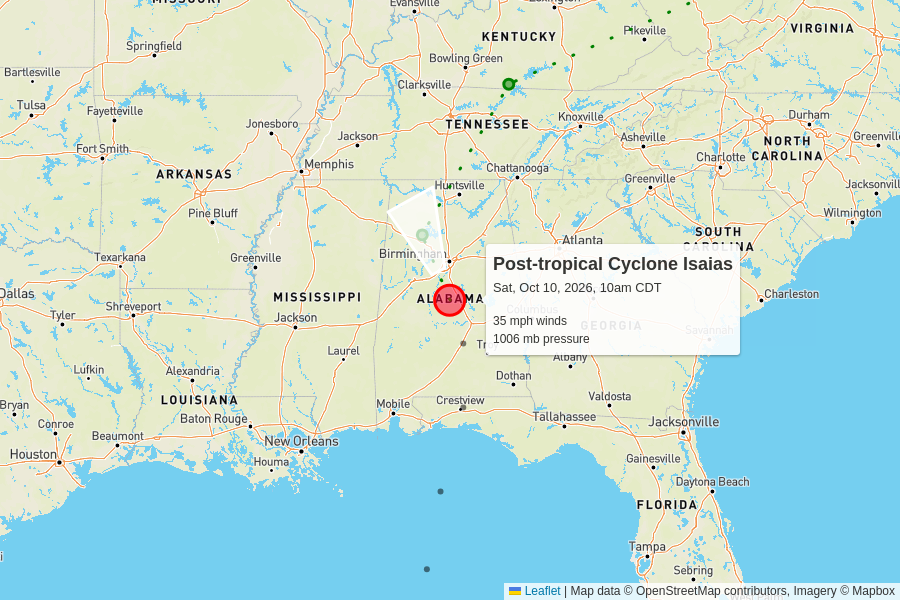
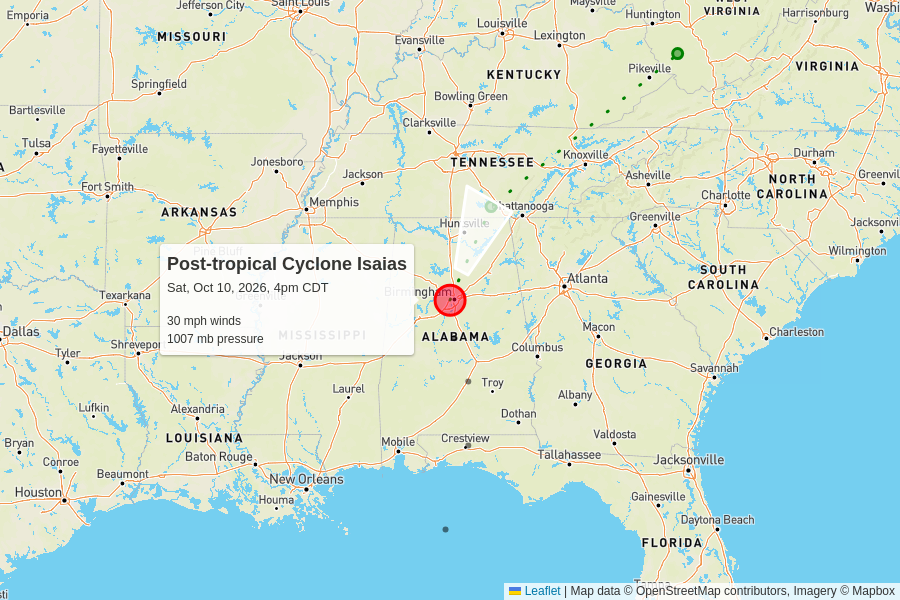
automatic update

diff --git a/docs/2026.html b/docs/2026.html
@@ -45,13 +45,13 @@
       <div class="grid-container">
           <div class="grid-row">
             <script type="text/json" id="storm_data_AL092026">
-              {"pressure":[{"timestamp":"2026-10-06T21:00:00.000Z","value":1007},{"timestamp":"2026-10-07T03:00:00.000Z","value":1005},{"timestamp":"2026-10-07T09:00:00.000Z","value":1004},{"timestamp":"2026-10-07T15:00:00.000Z","value":1000},{"timestamp":"2026-10-07T21:00:00.000Z","value":994},{"timestamp":"2026-10-08T03:00:00.000Z","value":988},{"timestamp":"2026-10-08T09:00:00.000Z","value":979},{"timestamp":"2026-10-08T15:00:00.000Z","value":975},{"timestamp":"2026-10-08T21:00:00.000Z","value":975},{"timestamp":"2026-10-09T03:00:00.000Z","value":969},{"timestamp":"2026-10-09T09:00:00.000Z","value":963},{"timestamp":"2026-10-09T15:00:00.000Z","value":959},{"timestamp":"2026-10-09T21:00:00.000Z","value":959},{"timestamp":"2026-10-10T03:00:00.000Z","value":982},{"timestamp":"2026-10-10T09:00:00.000Z","value":1002},{"timestamp":"2026-10-10T15:00:00.000Z","value":1006}],"wind":[{"timestamp":"2026-10-06T21:00:00.000Z","value":35},{"timestamp":"2026-10-07T03:00:00.000Z","value":35},{"timestamp":"2026-10-07T09:00:00.000Z","value":40},{"timestamp":"2026-10-07T15:00:00.000Z","value":45},{"timestamp":"2026-10-07T21:00:00.000Z","value":65},{"timestamp":"2026-10-08T03:00:00.000Z","value":70},{"timestamp":"2026-10-08T09:00:00.000Z","value":80},{"timestamp":"2026-10-08T15:00:00.000Z","value":85},{"timestamp":"2026-10-08T21:00:00.000Z","value":100},{"timestamp":"2026-10-09T03:00:00.000Z","value":105},{"timestamp":"2026-10-09T09:00:00.000Z","value":110},{"timestamp":"2026-10-09T15:00:00.000Z","value":120},{"timestamp":"2026-10-09T21:00:00.000Z","value":115},{"timestamp":"2026-10-10T03:00:00.000Z","value":90},{"timestamp":"2026-10-10T09:00:00.000Z","value":35},{"timestamp":"2026-10-10T15:00:00.000Z","value":35}],"extents":{"hurricane":[{"timestamp":"2026-10-06T21:00:00.000Z","value":null},{"timestamp":"2026-10-07T03:00:00.000Z","value":null},{"timestamp":"2026-10-07T09:00:00.000Z","value":null},{"timestamp":"2026-10-07T15:00:00.000Z","value":null},{"timestamp":"2026-10-07T21:00:00.000Z","value":null},{"timestamp":"2026-10-08T03:00:00.000Z","value":null},{"timestamp":"2026-10-08T09:00:00.000Z","value":"15"},{"timestamp":"2026-10-08T15:00:00.000Z","value":"15"},{"timestamp":"2026-10-08T21:00:00.000Z","value":"15"},{"timestamp":"2026-10-09T03:00:00.000Z","value":"25"},{"timestamp":"2026-10-09T09:00:00.000Z","value":"30"},{"timestamp":"2026-10-09T15:00:00.000Z","value":"35"},{"timestamp":"2026-10-09T21:00:00.000Z","value":"35"},{"timestamp":"2026-10-10T03:00:00.000Z","value":"35"},{"timestamp":"2026-10-10T09:00:00.000Z","value":null},{"timestamp":"2026-10-10T15:00:00.000Z","value":null}],"tropical":[{"timestamp":"2026-10-06T21:00:00.000Z","value":null},{"timestamp":"2026-10-07T03:00:00.000Z","value":null},{"timestamp":"2026-10-07T09:00:00.000Z","value":null},{"timestamp":"2026-10-07T15:00:00.000Z","value":null},{"timestamp":"2026-10-07T21:00:00.000Z","value":null},{"timestamp":"2026-10-08T03:00:00.000Z","value":null},{"timestamp":"2026-10-08T09:00:00.000Z","value":"90"},{"timestamp":"2026-10-08T15:00:00.000Z","value":"90"},{"timestamp":"2026-10-08T21:00:00.000Z","value":"125"},{"timestamp":"2026-10-09T03:00:00.000Z","value":"125"},{"timestamp":"2026-10-09T09:00:00.000Z","value":"185"},{"timestamp":"2026-10-09T15:00:00.000Z","value":"205"},{"timestamp":"2026-10-09T21:00:00.000Z","value":"205"},{"timestamp":"2026-10-10T03:00:00.000Z","value":"160"},{"timestamp":"2026-10-10T09:00:00.000Z","value":null},{"timestamp":"2026-10-10T15:00:00.000Z","value":null}]}}
+              {"pressure":[{"timestamp":"2026-10-06T21:00:00.000Z","value":1007},{"timestamp":"2026-10-07T03:00:00.000Z","value":1005},{"timestamp":"2026-10-07T09:00:00.000Z","value":1004},{"timestamp":"2026-10-07T15:00:00.000Z","value":1000},{"timestamp":"2026-10-07T21:00:00.000Z","value":994},{"timestamp":"2026-10-08T03:00:00.000Z","value":988},{"timestamp":"2026-10-08T09:00:00.000Z","value":979},{"timestamp":"2026-10-08T15:00:00.000Z","value":975},{"timestamp":"2026-10-08T21:00:00.000Z","value":975},{"timestamp":"2026-10-09T03:00:00.000Z","value":969},{"timestamp":"2026-10-09T09:00:00.000Z","value":963},{"timestamp":"2026-10-09T15:00:00.000Z","value":959},{"timestamp":"2026-10-09T21:00:00.000Z","value":959},{"timestamp":"2026-10-10T03:00:00.000Z","value":982},{"timestamp":"2026-10-10T09:00:00.000Z","value":1002},{"timestamp":"2026-10-10T15:00:00.000Z","value":1006},{"timestamp":"2026-10-10T21:00:00.000Z","value":1007}],"wind":[{"timestamp":"2026-10-06T21:00:00.000Z","value":35},{"timestamp":"2026-10-07T03:00:00.000Z","value":35},{"timestamp":"2026-10-07T09:00:00.000Z","value":40},{"timestamp":"2026-10-07T15:00:00.000Z","value":45},{"timestamp":"2026-10-07T21:00:00.000Z","value":65},{"timestamp":"2026-10-08T03:00:00.000Z","value":70},{"timestamp":"2026-10-08T09:00:00.000Z","value":80},{"timestamp":"2026-10-08T15:00:00.000Z","value":85},{"timestamp":"2026-10-08T21:00:00.000Z","value":100},{"timestamp":"2026-10-09T03:00:00.000Z","value":105},{"timestamp":"2026-10-09T09:00:00.000Z","value":110},{"timestamp":"2026-10-09T15:00:00.000Z","value":120},{"timestamp":"2026-10-09T21:00:00.000Z","value":115},{"timestamp":"2026-10-10T03:00:00.000Z","value":90},{"timestamp":"2026-10-10T09:00:00.000Z","value":35},{"timestamp":"2026-10-10T15:00:00.000Z","value":35},{"timestamp":"2026-10-10T21:00:00.000Z","value":30}],"extents":{"hurricane":[{"timestamp":"2026-10-06T21:00:00.000Z","value":null},{"timestamp":"2026-10-07T03:00:00.000Z","value":null},{"timestamp":"2026-10-07T09:00:00.000Z","value":null},{"timestamp":"2026-10-07T15:00:00.000Z","value":null},{"timestamp":"2026-10-07T21:00:00.000Z","value":null},{"timestamp":"2026-10-08T03:00:00.000Z","value":null},{"timestamp":"2026-10-08T09:00:00.000Z","value":"15"},{"timestamp":"2026-10-08T15:00:00.000Z","value":"15"},{"timestamp":"2026-10-08T21:00:00.000Z","value":"15"},{"timestamp":"2026-10-09T03:00:00.000Z","value":"25"},{"timestamp":"2026-10-09T09:00:00.000Z","value":"30"},{"timestamp":"2026-10-09T15:00:00.000Z","value":"35"},{"timestamp":"2026-10-09T21:00:00.000Z","value":"35"},{"timestamp":"2026-10-10T03:00:00.000Z","value":"35"},{"timestamp":"2026-10-10T09:00:00.000Z","value":null},{"timestamp":"2026-10-10T15:00:00.000Z","value":null},{"timestamp":"2026-10-10T21:00:00.000Z","value":null}],"tropical":[{"timestamp":"2026-10-06T21:00:00.000Z","value":null},{"timestamp":"2026-10-07T03:00:00.000Z","value":null},{"timestamp":"2026-10-07T09:00:00.000Z","value":null},{"timestamp":"2026-10-07T15:00:00.000Z","value":null},{"timestamp":"2026-10-07T21:00:00.000Z","value":null},{"timestamp":"2026-10-08T03:00:00.000Z","value":null},{"timestamp":"2026-10-08T09:00:00.000Z","value":"90"},{"timestamp":"2026-10-08T15:00:00.000Z","value":"90"},{"timestamp":"2026-10-08T21:00:00.000Z","value":"125"},{"timestamp":"2026-10-09T03:00:00.000Z","value":"125"},{"timestamp":"2026-10-09T09:00:00.000Z","value":"185"},{"timestamp":"2026-10-09T15:00:00.000Z","value":"205"},{"timestamp":"2026-10-09T21:00:00.000Z","value":"205"},{"timestamp":"2026-10-10T03:00:00.000Z","value":"160"},{"timestamp":"2026-10-10T09:00:00.000Z","value":null},{"timestamp":"2026-10-10T15:00:00.000Z","value":null},{"timestamp":"2026-10-10T21:00:00.000Z","value":null}]}}
             </script>              <div class="grid-container storm">
                 <div class="grid-row " onClick="toggle('storm_AL092026')">
                   <h2>
                     Post-tropical Cyclone Isaias
                     <div class="updated">
-                      last updated <time datetime="2026-10-10T15:00:00.000Z">2026-10-10T15:00:00.000Z</time>
+                      last updated <time datetime="2026-10-10T21:00:00.000Z">2026-10-10T21:00:00.000Z</time>
                     </div>
                   </h2>
                 </div>
@@ -67,19 +67,19 @@
                       </tr>
                       <tr>
                         <td>
-                          35 mph
+                          30 mph
                           <br>
-                          0 mph since last update
+                          -5 mph since last update
                         </td>
                         <td>
-                          1006 mb
+                          1007 mb
                           <br>
-                          +4 mb since last update
+                          +1 mb since last update
                         </td>
                         <td>
-                          10 mph to the north-northwest
+                          15 mph to the north-northeast
                           <br>
-                          <span style="display: inline-block; font-size: 1.5em; transform: rotate(335deg);">↑</span>
+                          <span style="display: inline-block; font-size: 1.5em; transform: rotate(25deg);">↑</span>
                         </td>
                         <td>
                           <a href="https://raw.githubusercontent.com/mgwalker/atlantic-hurricanes/main/data/csv/AL092026.csv">AL092026.csv</a>

diff --git a/docs/index.html b/docs/index.html
@@ -45,13 +45,13 @@
       <div class="grid-container">
           <div class="grid-row">
             <script type="text/json" id="storm_data_AL092026">
-              {"pressure":[{"timestamp":"2026-10-06T21:00:00.000Z","value":1007},{"timestamp":"2026-10-07T03:00:00.000Z","value":1005},{"timestamp":"2026-10-07T09:00:00.000Z","value":1004},{"timestamp":"2026-10-07T15:00:00.000Z","value":1000},{"timestamp":"2026-10-07T21:00:00.000Z","value":994},{"timestamp":"2026-10-08T03:00:00.000Z","value":988},{"timestamp":"2026-10-08T09:00:00.000Z","value":979},{"timestamp":"2026-10-08T15:00:00.000Z","value":975},{"timestamp":"2026-10-08T21:00:00.000Z","value":975},{"timestamp":"2026-10-09T03:00:00.000Z","value":969},{"timestamp":"2026-10-09T09:00:00.000Z","value":963},{"timestamp":"2026-10-09T15:00:00.000Z","value":959},{"timestamp":"2026-10-09T21:00:00.000Z","value":959},{"timestamp":"2026-10-10T03:00:00.000Z","value":982},{"timestamp":"2026-10-10T09:00:00.000Z","value":1002},{"timestamp":"2026-10-10T15:00:00.000Z","value":1006}],"wind":[{"timestamp":"2026-10-06T21:00:00.000Z","value":35},{"timestamp":"2026-10-07T03:00:00.000Z","value":35},{"timestamp":"2026-10-07T09:00:00.000Z","value":40},{"timestamp":"2026-10-07T15:00:00.000Z","value":45},{"timestamp":"2026-10-07T21:00:00.000Z","value":65},{"timestamp":"2026-10-08T03:00:00.000Z","value":70},{"timestamp":"2026-10-08T09:00:00.000Z","value":80},{"timestamp":"2026-10-08T15:00:00.000Z","value":85},{"timestamp":"2026-10-08T21:00:00.000Z","value":100},{"timestamp":"2026-10-09T03:00:00.000Z","value":105},{"timestamp":"2026-10-09T09:00:00.000Z","value":110},{"timestamp":"2026-10-09T15:00:00.000Z","value":120},{"timestamp":"2026-10-09T21:00:00.000Z","value":115},{"timestamp":"2026-10-10T03:00:00.000Z","value":90},{"timestamp":"2026-10-10T09:00:00.000Z","value":35},{"timestamp":"2026-10-10T15:00:00.000Z","value":35}],"extents":{"hurricane":[{"timestamp":"2026-10-06T21:00:00.000Z","value":null},{"timestamp":"2026-10-07T03:00:00.000Z","value":null},{"timestamp":"2026-10-07T09:00:00.000Z","value":null},{"timestamp":"2026-10-07T15:00:00.000Z","value":null},{"timestamp":"2026-10-07T21:00:00.000Z","value":null},{"timestamp":"2026-10-08T03:00:00.000Z","value":null},{"timestamp":"2026-10-08T09:00:00.000Z","value":"15"},{"timestamp":"2026-10-08T15:00:00.000Z","value":"15"},{"timestamp":"2026-10-08T21:00:00.000Z","value":"15"},{"timestamp":"2026-10-09T03:00:00.000Z","value":"25"},{"timestamp":"2026-10-09T09:00:00.000Z","value":"30"},{"timestamp":"2026-10-09T15:00:00.000Z","value":"35"},{"timestamp":"2026-10-09T21:00:00.000Z","value":"35"},{"timestamp":"2026-10-10T03:00:00.000Z","value":"35"},{"timestamp":"2026-10-10T09:00:00.000Z","value":null},{"timestamp":"2026-10-10T15:00:00.000Z","value":null}],"tropical":[{"timestamp":"2026-10-06T21:00:00.000Z","value":null},{"timestamp":"2026-10-07T03:00:00.000Z","value":null},{"timestamp":"2026-10-07T09:00:00.000Z","value":null},{"timestamp":"2026-10-07T15:00:00.000Z","value":null},{"timestamp":"2026-10-07T21:00:00.000Z","value":null},{"timestamp":"2026-10-08T03:00:00.000Z","value":null},{"timestamp":"2026-10-08T09:00:00.000Z","value":"90"},{"timestamp":"2026-10-08T15:00:00.000Z","value":"90"},{"timestamp":"2026-10-08T21:00:00.000Z","value":"125"},{"timestamp":"2026-10-09T03:00:00.000Z","value":"125"},{"timestamp":"2026-10-09T09:00:00.000Z","value":"185"},{"timestamp":"2026-10-09T15:00:00.000Z","value":"205"},{"timestamp":"2026-10-09T21:00:00.000Z","value":"205"},{"timestamp":"2026-10-10T03:00:00.000Z","value":"160"},{"timestamp":"2026-10-10T09:00:00.000Z","value":null},{"timestamp":"2026-10-10T15:00:00.000Z","value":null}]}}
+              {"pressure":[{"timestamp":"2026-10-06T21:00:00.000Z","value":1007},{"timestamp":"2026-10-07T03:00:00.000Z","value":1005},{"timestamp":"2026-10-07T09:00:00.000Z","value":1004},{"timestamp":"2026-10-07T15:00:00.000Z","value":1000},{"timestamp":"2026-10-07T21:00:00.000Z","value":994},{"timestamp":"2026-10-08T03:00:00.000Z","value":988},{"timestamp":"2026-10-08T09:00:00.000Z","value":979},{"timestamp":"2026-10-08T15:00:00.000Z","value":975},{"timestamp":"2026-10-08T21:00:00.000Z","value":975},{"timestamp":"2026-10-09T03:00:00.000Z","value":969},{"timestamp":"2026-10-09T09:00:00.000Z","value":963},{"timestamp":"2026-10-09T15:00:00.000Z","value":959},{"timestamp":"2026-10-09T21:00:00.000Z","value":959},{"timestamp":"2026-10-10T03:00:00.000Z","value":982},{"timestamp":"2026-10-10T09:00:00.000Z","value":1002},{"timestamp":"2026-10-10T15:00:00.000Z","value":1006},{"timestamp":"2026-10-10T21:00:00.000Z","value":1007}],"wind":[{"timestamp":"2026-10-06T21:00:00.000Z","value":35},{"timestamp":"2026-10-07T03:00:00.000Z","value":35},{"timestamp":"2026-10-07T09:00:00.000Z","value":40},{"timestamp":"2026-10-07T15:00:00.000Z","value":45},{"timestamp":"2026-10-07T21:00:00.000Z","value":65},{"timestamp":"2026-10-08T03:00:00.000Z","value":70},{"timestamp":"2026-10-08T09:00:00.000Z","value":80},{"timestamp":"2026-10-08T15:00:00.000Z","value":85},{"timestamp":"2026-10-08T21:00:00.000Z","value":100},{"timestamp":"2026-10-09T03:00:00.000Z","value":105},{"timestamp":"2026-10-09T09:00:00.000Z","value":110},{"timestamp":"2026-10-09T15:00:00.000Z","value":120},{"timestamp":"2026-10-09T21:00:00.000Z","value":115},{"timestamp":"2026-10-10T03:00:00.000Z","value":90},{"timestamp":"2026-10-10T09:00:00.000Z","value":35},{"timestamp":"2026-10-10T15:00:00.000Z","value":35},{"timestamp":"2026-10-10T21:00:00.000Z","value":30}],"extents":{"hurricane":[{"timestamp":"2026-10-06T21:00:00.000Z","value":null},{"timestamp":"2026-10-07T03:00:00.000Z","value":null},{"timestamp":"2026-10-07T09:00:00.000Z","value":null},{"timestamp":"2026-10-07T15:00:00.000Z","value":null},{"timestamp":"2026-10-07T21:00:00.000Z","value":null},{"timestamp":"2026-10-08T03:00:00.000Z","value":null},{"timestamp":"2026-10-08T09:00:00.000Z","value":"15"},{"timestamp":"2026-10-08T15:00:00.000Z","value":"15"},{"timestamp":"2026-10-08T21:00:00.000Z","value":"15"},{"timestamp":"2026-10-09T03:00:00.000Z","value":"25"},{"timestamp":"2026-10-09T09:00:00.000Z","value":"30"},{"timestamp":"2026-10-09T15:00:00.000Z","value":"35"},{"timestamp":"2026-10-09T21:00:00.000Z","value":"35"},{"timestamp":"2026-10-10T03:00:00.000Z","value":"35"},{"timestamp":"2026-10-10T09:00:00.000Z","value":null},{"timestamp":"2026-10-10T15:00:00.000Z","value":null},{"timestamp":"2026-10-10T21:00:00.000Z","value":null}],"tropical":[{"timestamp":"2026-10-06T21:00:00.000Z","value":null},{"timestamp":"2026-10-07T03:00:00.000Z","value":null},{"timestamp":"2026-10-07T09:00:00.000Z","value":null},{"timestamp":"2026-10-07T15:00:00.000Z","value":null},{"timestamp":"2026-10-07T21:00:00.000Z","value":null},{"timestamp":"2026-10-08T03:00:00.000Z","value":null},{"timestamp":"2026-10-08T09:00:00.000Z","value":"90"},{"timestamp":"2026-10-08T15:00:00.000Z","value":"90"},{"timestamp":"2026-10-08T21:00:00.000Z","value":"125"},{"timestamp":"2026-10-09T03:00:00.000Z","value":"125"},{"timestamp":"2026-10-09T09:00:00.000Z","value":"185"},{"timestamp":"2026-10-09T15:00:00.000Z","value":"205"},{"timestamp":"2026-10-09T21:00:00.000Z","value":"205"},{"timestamp":"2026-10-10T03:00:00.000Z","value":"160"},{"timestamp":"2026-10-10T09:00:00.000Z","value":null},{"timestamp":"2026-10-10T15:00:00.000Z","value":null},{"timestamp":"2026-10-10T21:00:00.000Z","value":null}]}}
             </script>              <div class="grid-container storm">
                 <div class="grid-row " onClick="toggle('storm_AL092026')">
                   <h2>
                     Post-tropical Cyclone Isaias
                     <div class="updated">
-                      last updated <time datetime="2026-10-10T15:00:00.000Z">2026-10-10T15:00:00.000Z</time>
+                      last updated <time datetime="2026-10-10T21:00:00.000Z">2026-10-10T21:00:00.000Z</time>
                     </div>
                   </h2>
                 </div>
@@ -67,19 +67,19 @@
                       </tr>
                       <tr>
                         <td>
-                          35 mph
+                          30 mph
                           <br>
-                          0 mph since last update
+                          -5 mph since last update
                         </td>
                         <td>
-                          1006 mb
+                          1007 mb
                           <br>
-                          +4 mb since last update
+                          +1 mb since last update
                         </td>
                         <td>
-                          10 mph to the north-northwest
+                          15 mph to the north-northeast
                           <br>
-                          <span style="display: inline-block; font-size: 1.5em; transform: rotate(335deg);">↑</span>
+                          <span style="display: inline-block; font-size: 1.5em; transform: rotate(25deg);">↑</span>
                         </td>
                         <td>
                           <a href="https://raw.githubusercontent.com/mgwalker/atlantic-hurricanes/main/data/csv/AL092026.csv">AL092026.csv</a>
